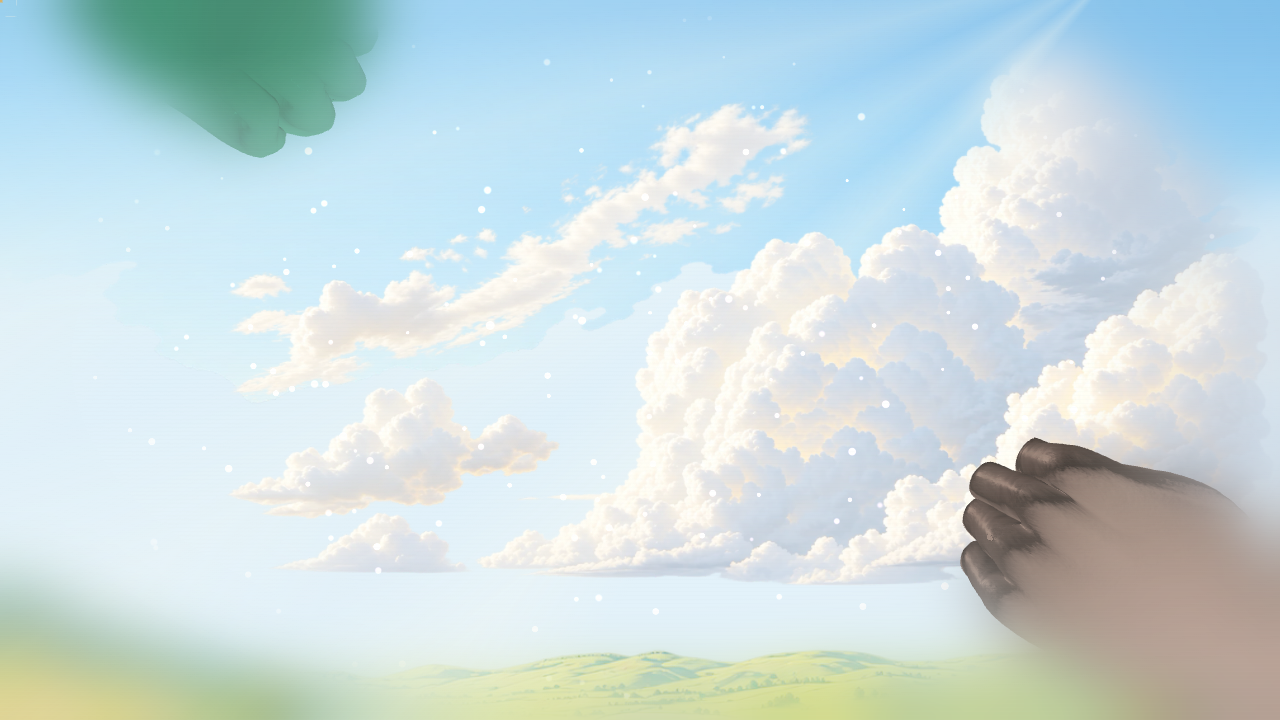
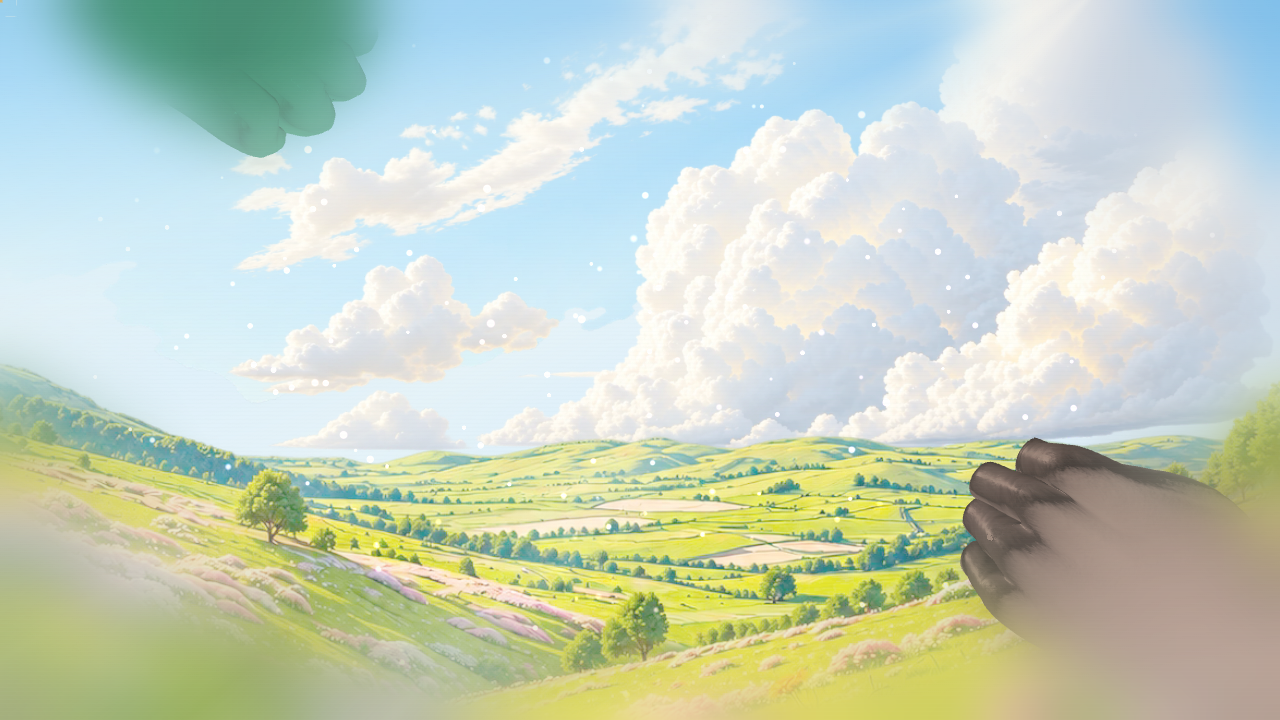
meadow raised to cover ~57% of frame; clouds ride the upper band

diff --git a/src/gl/consultMeet.js b/src/gl/consultMeet.js
@@ -148,8 +148,8 @@ export function createConsultMeet(scene, _opts = {}) {
   horizonPlane.position.set(0, 0, -18);
   bgGroup.add(horizonPlane);
   const skyPlane = mkLayer(SKY_URL, 34, 19.1, 0, 2.2, -16, 0);       // fills frame, gradient higher
-  const cloudsPlane = mkLayer(CLOUDS_URL, 19, 10.7, 2.0, 0.9, -10, 0); // zoomed out, mass centre-right like the reference
-  const landPlane = mkLayer(LAND_URL, 22, 16.5, 0, -3.6, -5, 0);   // meadow ~ bottom third, like the reference
+  const cloudsPlane = mkLayer(CLOUDS_URL, 19, 10.7, 2.0, 3.1, -10, 0); // cloud mass rides the upper band
+  const landPlane = mkLayer(LAND_URL, 22, 16.5, 0, -0.62, -5, 0);  // meadow covers ~57% of the frame
 
   const rigGroup = new Group();
   rigGroup.scale.setScalar(SCALE);
@@ -549,9 +549,9 @@ export function createConsultMeet(scene, _opts = {}) {
     skyPlane.position.x = 0 + px * 0.45;
     skyPlane.position.y = 2.2 + py * 0.28;
     cloudsPlane.position.x = 2.0 + px * 1.1;
-    cloudsPlane.position.y = 0.9 + py * 0.65;
+    cloudsPlane.position.y = 3.1 + py * 0.65;
     landPlane.position.x = 0 + px * 2.2;
-    landPlane.position.y = -3.6 + py * 1.25;
+    landPlane.position.y = -0.62 + py * 1.25;
     rigGroup.rotation.y = Math.sin(t * Math.PI) * 0.02 + px * 0.020;
     rigGroup.rotation.x = -py * 0.014;
     rigGroup.position.x = CENTER_LIFT.x + Math.sin(t * Math.PI * 0.8) * 0.30;
